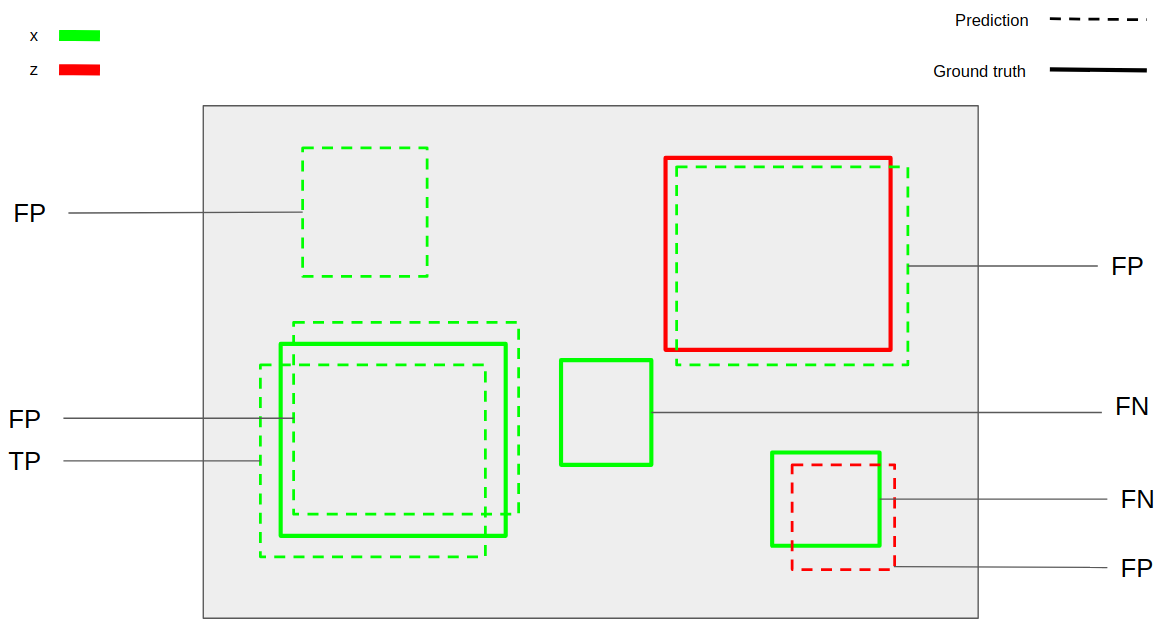
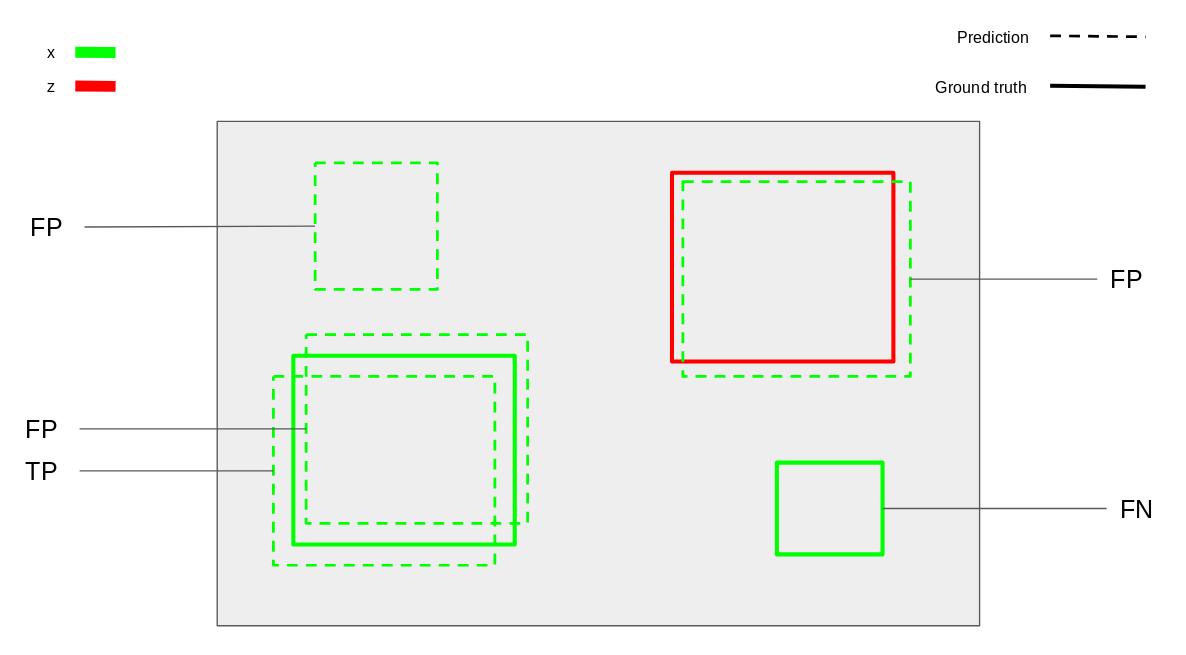
The metric as changed : a wrong prediction from class z won't affect class x precision. Update on the read me and unit tests

diff --git a/test/test_evaluate.py b/test/test_evaluate.py
@@ -2,6 +2,7 @@ import unittest
 import numpy as np
 
 from mean_average_precision.detection_map import DetectionMAP
+from mean_average_precision.utils.bbox import jaccard
 from mean_average_precision.utils.show_frame import show_frame
 
 
@@ -27,43 +28,38 @@ class TestNumpyFunctions(unittest.TestCase):
         pass
 
     def test_is_iou_thresholded(self):
-        IoU = DetectionMAP.compute_IoU(self.pred, self.gt, self.conf, 0.8)
-        valid_IoU = np.argwhere(IoU > 0)
-        np.testing.assert_equal(valid_IoU, np.array([[0, 0], [3, 2], [5, 3]]))
+        IoU = DetectionMAP.compute_IoU_mask(self.pred, self.gt, 0.7)
+        valid_IoU = np.argwhere(IoU)
+        np.testing.assert_equal(valid_IoU, np.array([[0, 0], [1, 0], [3, 2], [5, 3]]))
 
     def test_is_FN_incremented_properly(self):
-        IoU = DetectionMAP.compute_IoU(self.pred, self.gt, self.conf, 0)
-        qty = DetectionMAP.compute_false_negatives(self.cls, self.gt_cls, IoU, 0)
-        self.assertEqual(qty, 1)
-        qty = DetectionMAP.compute_false_negatives(self.cls, self.gt_cls, IoU, 1)
-        self.assertEqual(qty, 1)
-        qty = DetectionMAP.compute_false_negatives(self.cls, self.gt_cls, IoU, 2)
-        self.assertEqual(qty, 0)
+        mAP = DetectionMAP(3)
+        mAP.evaluate(self.pred, self.cls, self.conf, self.gt, self.gt_cls)
+
+        self.assertEqual(mAP.total_accumulators[0][0].FN, 1)
+        self.assertEqual(mAP.total_accumulators[0][1].FN, 1)
+        self.assertEqual(mAP.total_accumulators[0][2].FN, 0)
 
     def test_is_FN_incremented_properly_if_no_prediction(self):
-        IoU = None
-        qty = DetectionMAP.compute_false_negatives(np.array([]), self.gt_cls, IoU, 0)
-        self.assertEqual(qty, 2)
-        qty = DetectionMAP.compute_false_negatives(np.array([]), self.gt_cls, IoU, 1)
-        self.assertEqual(qty, 1)
-        qty = DetectionMAP.compute_false_negatives(np.array([]), self.gt_cls, IoU, 2)
-        self.assertEqual(qty, 1)
+        mAP = DetectionMAP(3)
+        mAP.evaluate(np.array([]), np.array([]), np.array([]), self.gt, self.gt_cls)
+        self.assertEqual(mAP.total_accumulators[0][0].FN, 2)
+        self.assertEqual(mAP.total_accumulators[0][1].FN, 1)
+        self.assertEqual(mAP.total_accumulators[0][2].FN, 1)
 
     def test_is_TP_incremented_properly(self):
-        IoU = DetectionMAP.compute_IoU(self.pred, self.gt, self.conf, 0)
-        qty = DetectionMAP.compute_true_positive(self.cls, self.gt_cls, IoU, 0)
-        self.assertEqual(qty, 1)
-        qty = DetectionMAP.compute_true_positive(self.cls, self.gt_cls, IoU, 1)
-        self.assertEqual(qty, 0)
-        qty = DetectionMAP.compute_true_positive(self.cls, self.gt_cls, IoU, 2)
-        self.assertEqual(qty, 1)
+        mAP = DetectionMAP(3)
+        mAP.evaluate(self.pred, self.cls, self.conf, self.gt, self.gt_cls)
+
+        self.assertEqual(mAP.total_accumulators[0][0].TP, 1)
+        self.assertEqual(mAP.total_accumulators[0][1].TP, 0)
+        self.assertEqual(mAP.total_accumulators[0][2].TP, 1)
 
     def test_is_FP_incremented_properly_when_away_from_gt(self):
-        IoU = DetectionMAP.compute_IoU(self.pred, self.gt, self.conf, 0)
-        qty = DetectionMAP.compute_false_positive(self.cls, self.conf, 0, self.gt_cls, IoU, 0)
-        self.assertEqual(qty, 4)
-        qty = DetectionMAP.compute_false_positive(self.cls, self.conf, 0, self.gt_cls, IoU, 1)
-        self.assertEqual(qty, 2)
-        qty = DetectionMAP.compute_false_positive(self.cls, self.conf, 0, self.gt_cls, IoU, 2)
-        self.assertEqual(qty, 0)
+        mAP = DetectionMAP(3)
+        mAP.evaluate(self.pred, self.cls, self.conf, self.gt, self.gt_cls)
+
+        self.assertEqual(mAP.total_accumulators[0][0].FP, 3)
+        self.assertEqual(mAP.total_accumulators[0][1].FP, 1)
+        self.assertEqual(mAP.total_accumulators[0][2].FP, 0)
 

diff --git a/README.md b/README.md
@@ -19,7 +19,6 @@ Handle every class as one against the others. (x against z)
 - False positive (FP):
     - Gt x classified as x more than once
     - Prediction x not overlapping any Gt x
-    - Prediction z overlapping Gt x
 - False negative (FN):
     - Gt x not predicted as x
 ### Example frame
